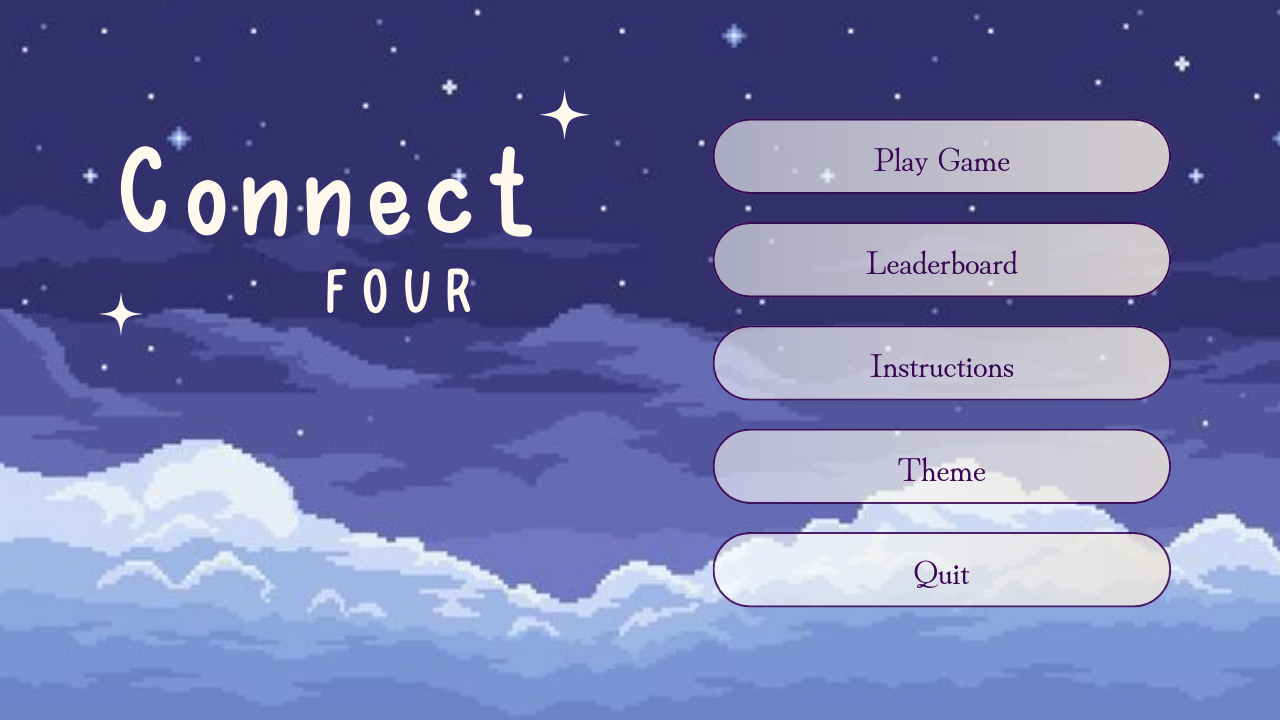
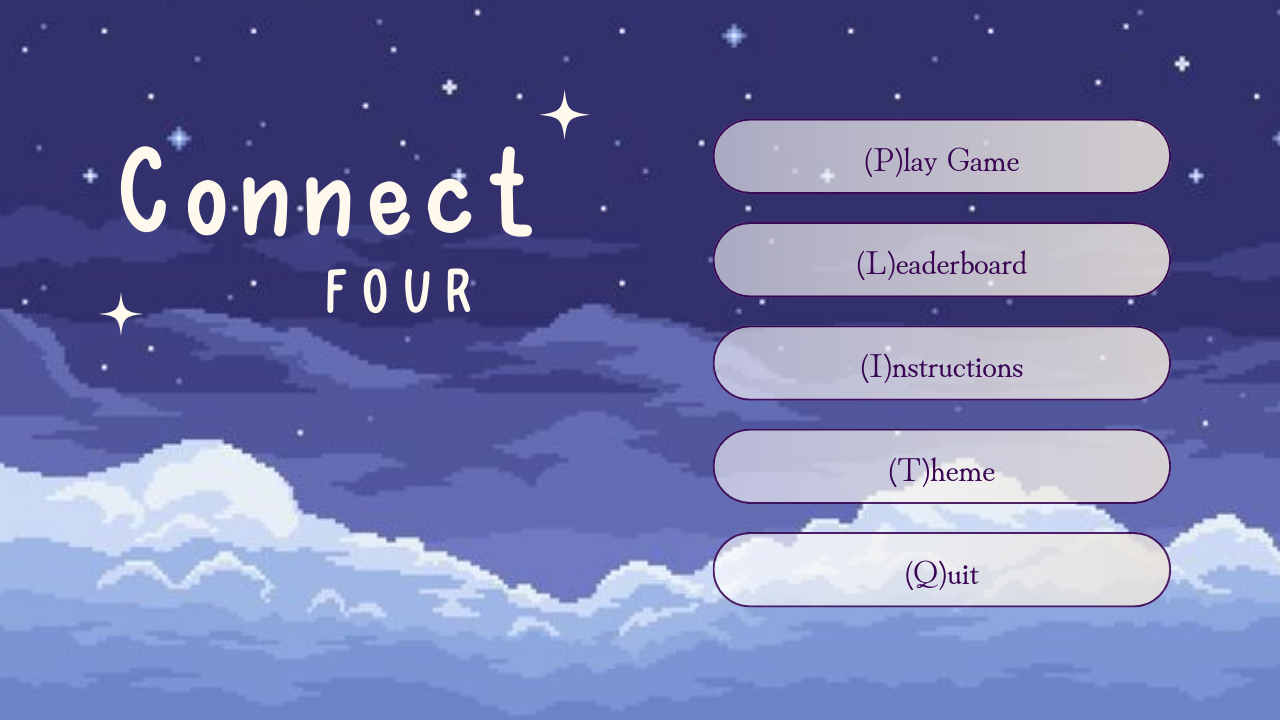
Used getChar on the Main menu, working on the drop component

diff --git a/FinalCPTChloeN.java b/FinalCPTChloeN.java
@@ -18,11 +18,10 @@ public class FinalCPTChloeN{
 		// Main Menu
 		BufferedImage imgMainMenu = con.loadImage("mainmenu.jpg");
 		
-		con.setBackgroundColor(new Color(82, 67, 130));
-		//con.drawImage(imgMainMenu, 0, 0);
+		con.drawImage(imgMainMenu, 0, 0);
 		
 		// Variables
-		int intChoice;
+		char chrChoice;
 		boolean boolExit;
 		
 		// Initialize Variables
@@ -30,24 +29,18 @@ public class FinalCPTChloeN{
 		
 		// Main Menu
 		while(!boolExit){
-			con.println("--- Connect 4 Main Menu ---");
-			con.println("1. Play Game");
-			con.println("2. Instructions");
-			con.println("3. Leaderboard");
-			con.println("4. Exit");
-			con.print("Enter your choice: ");
-			intChoice = con.readInt();
+			con.println();
+			chrChoice = con.getChar();
 			
 			// Depending on the choice the user, do the associated task
-			if(intChoice == 1){
+			if(chrChoice == 'p'){
 				playGame(con);
-			}else if(intChoice == 2){
-			}else if(intChoice == 3){
-			}else if(intChoice == 4){
+			}else if(chrChoice == 'l'){
+			}else if(chrChoice == 'i'){
+			}else if(chrChoice == 't'){
+			}else if(chrChoice == 'q'){
 				con.println("Exiting Game...");
 				boolExit = true;
-			}else{
-				con.println("Invalid choice. Please try again.");
 			}
 		}	
 		
@@ -77,6 +70,7 @@ public class FinalCPTChloeN{
         
         // Main Game
         while (!boolGameWon && !IsBoardFull(intBoard, intRows, intColumns, intEmpty)) {
+            con.setBackgroundColor(new Color(82, 67, 130));
             MakeBoard(intBoard, intRows, intColumns, con);
             if(boolIsPlayer1Turn == true){
 				con.println("Player 1 (X), it's your turn");
@@ -85,7 +79,23 @@ public class FinalCPTChloeN{
 			}
             con.print("Enter the column (1-7) to drop your piece: ");
             int column = con.readInt() - 1;
-        }
+            
+            if (column < 0 || column >= intColumns) {
+                con.println("Invalid column. Please try again.");
+                continue;
+            }
+            if(boolIsPlayer1Turn = true){
+				if(!DropPiece(intBoard, intColumns, intPlayer1, intRows, intEmpty)) {
+					con.println("Column is full. Please try a different column.");
+					continue;
+				}
+            }else{
+				if(!DropPiece(intBoard, intColumns, intPlayer2, intRows, intEmpty)){
+                con.println("Column is full. Please try a different column.");
+                continue;
+				}
+			}
+		}
 	}
 	
 	// InitializeBoard
@@ -134,6 +144,18 @@ public class FinalCPTChloeN{
             con.println();
         }
 
+    }
+    
+    // Drop Piece
+    public static boolean DropPiece(int[][] board, int column, int piece, int rows, int empty) {
+        int x;
+        for (x = rows - 1; x >= 0; x--){
+            if (board[x][column] == empty){
+                board[x][column] = piece;
+                return true;
+            }
+        }
+        return false;
     }
 }
 
